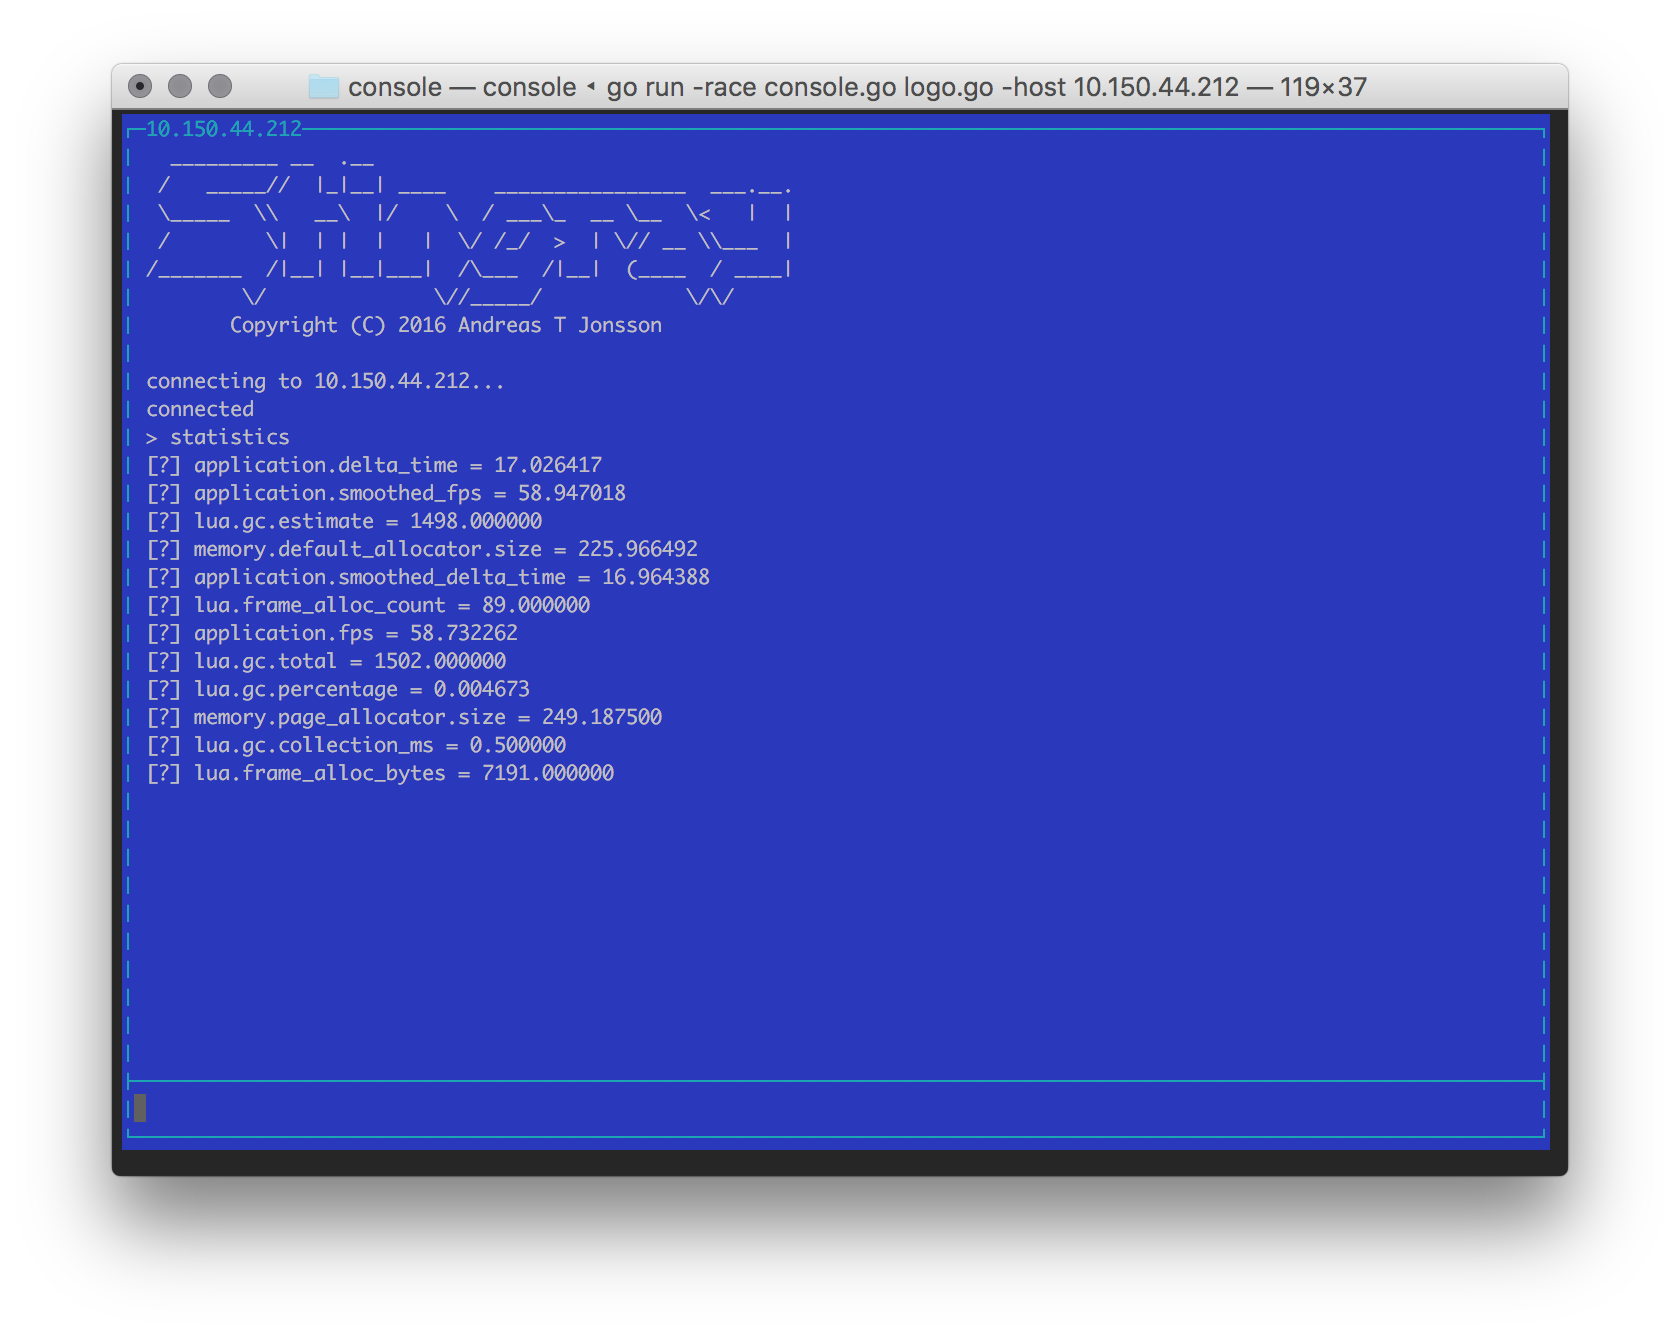
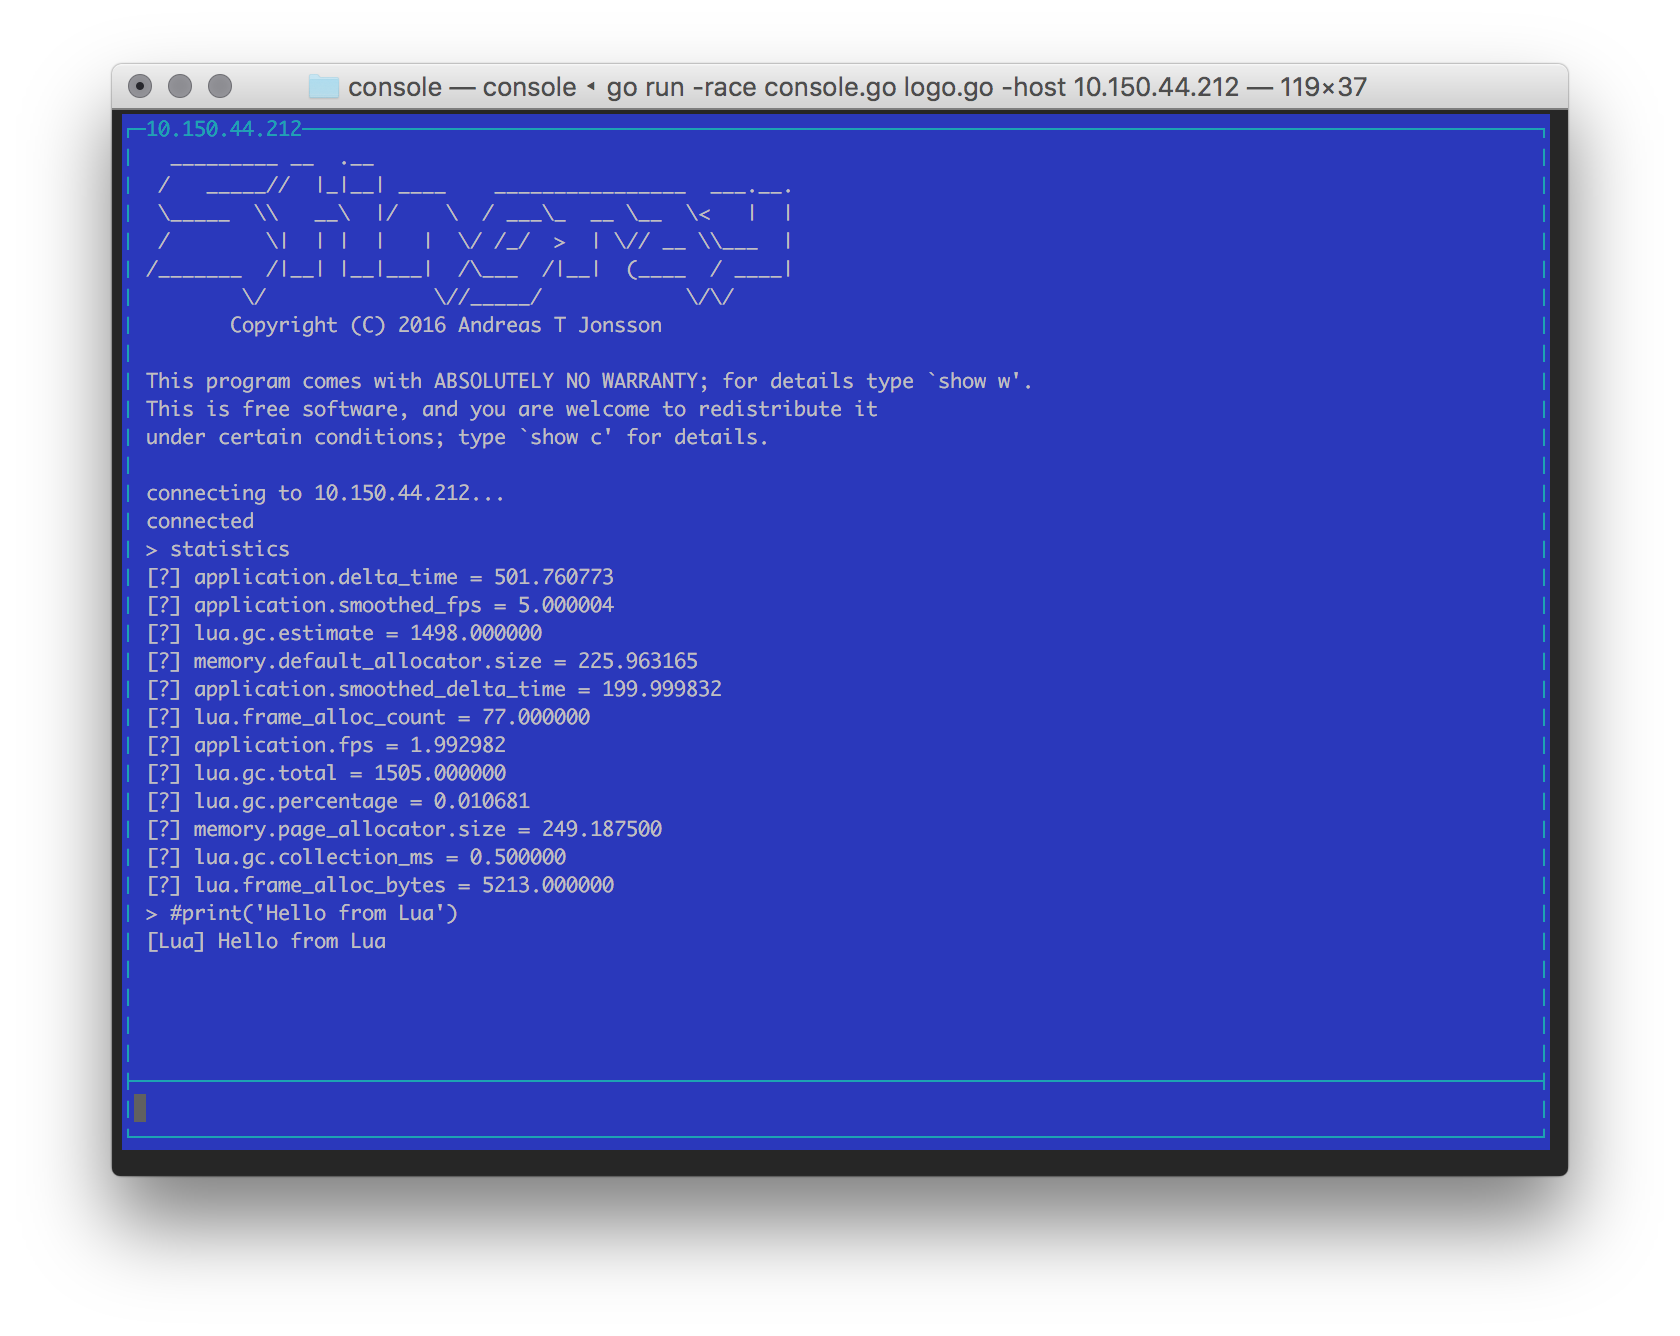
Updated screenshot.

Changed region(s): [[0.0929, 0.2762, 0.5881, 0.7058]]

diff --git a/cmd/console/logo.go b/cmd/console/logo.go
@@ -25,3 +25,7 @@ var logo = `
  /_______  /|__| |__|___|  /\___  /|__|  (____  / ____|
          \/              \//_____/            \/\/
 `
+
+var notice = " This program comes with ABSOLUTELY NO WARRANTY; for details type `show w'.\n" +
+	" This is free software, and you are welcome to redistribute it\n" +
+	" under certain conditions; type `show c' for details.\n\n"

diff --git a/cmd/console/console.go b/cmd/console/console.go
@@ -112,6 +112,7 @@ func layout(g *gocui.Gui) error {
 
 		fmt.Fprint(v, logo)
 		fmt.Fprintf(v, "        Copyright (C) 2016 Andreas T Jonsson\n\n")
+		fmt.Fprint(v, notice)
 
 		v.FgColor = gocui.ColorWhite
 		v.Title = "disconnected"
